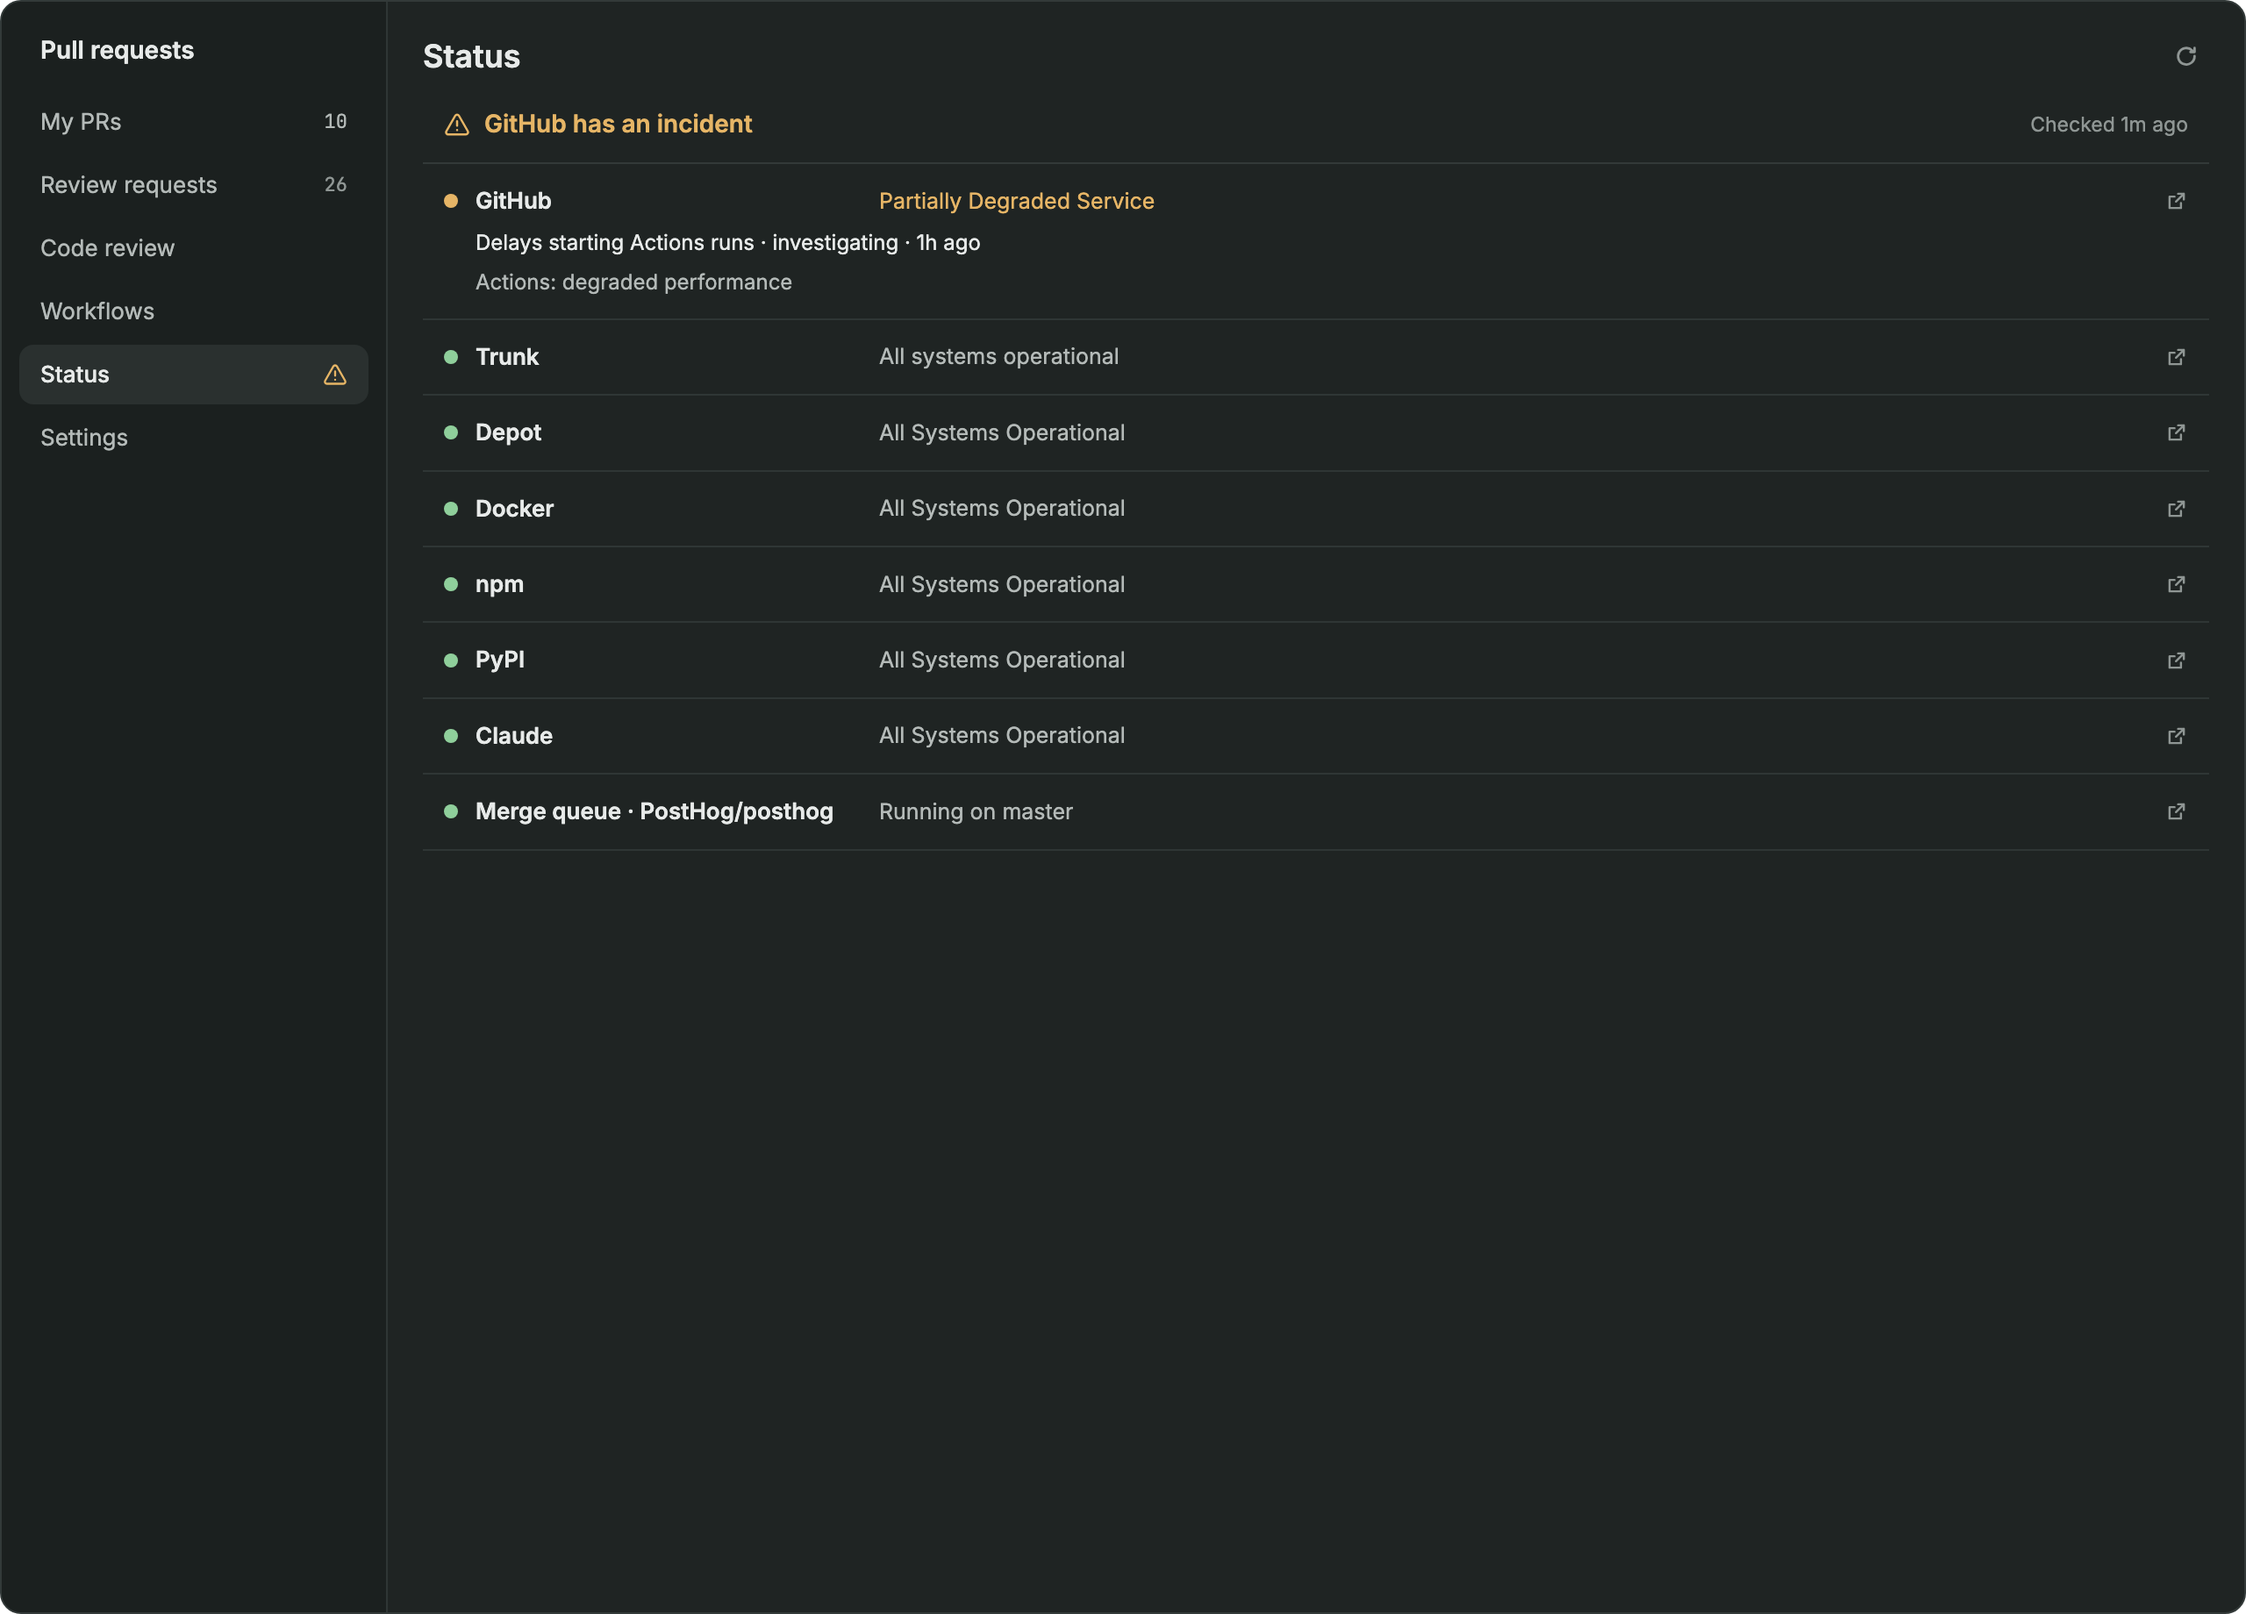
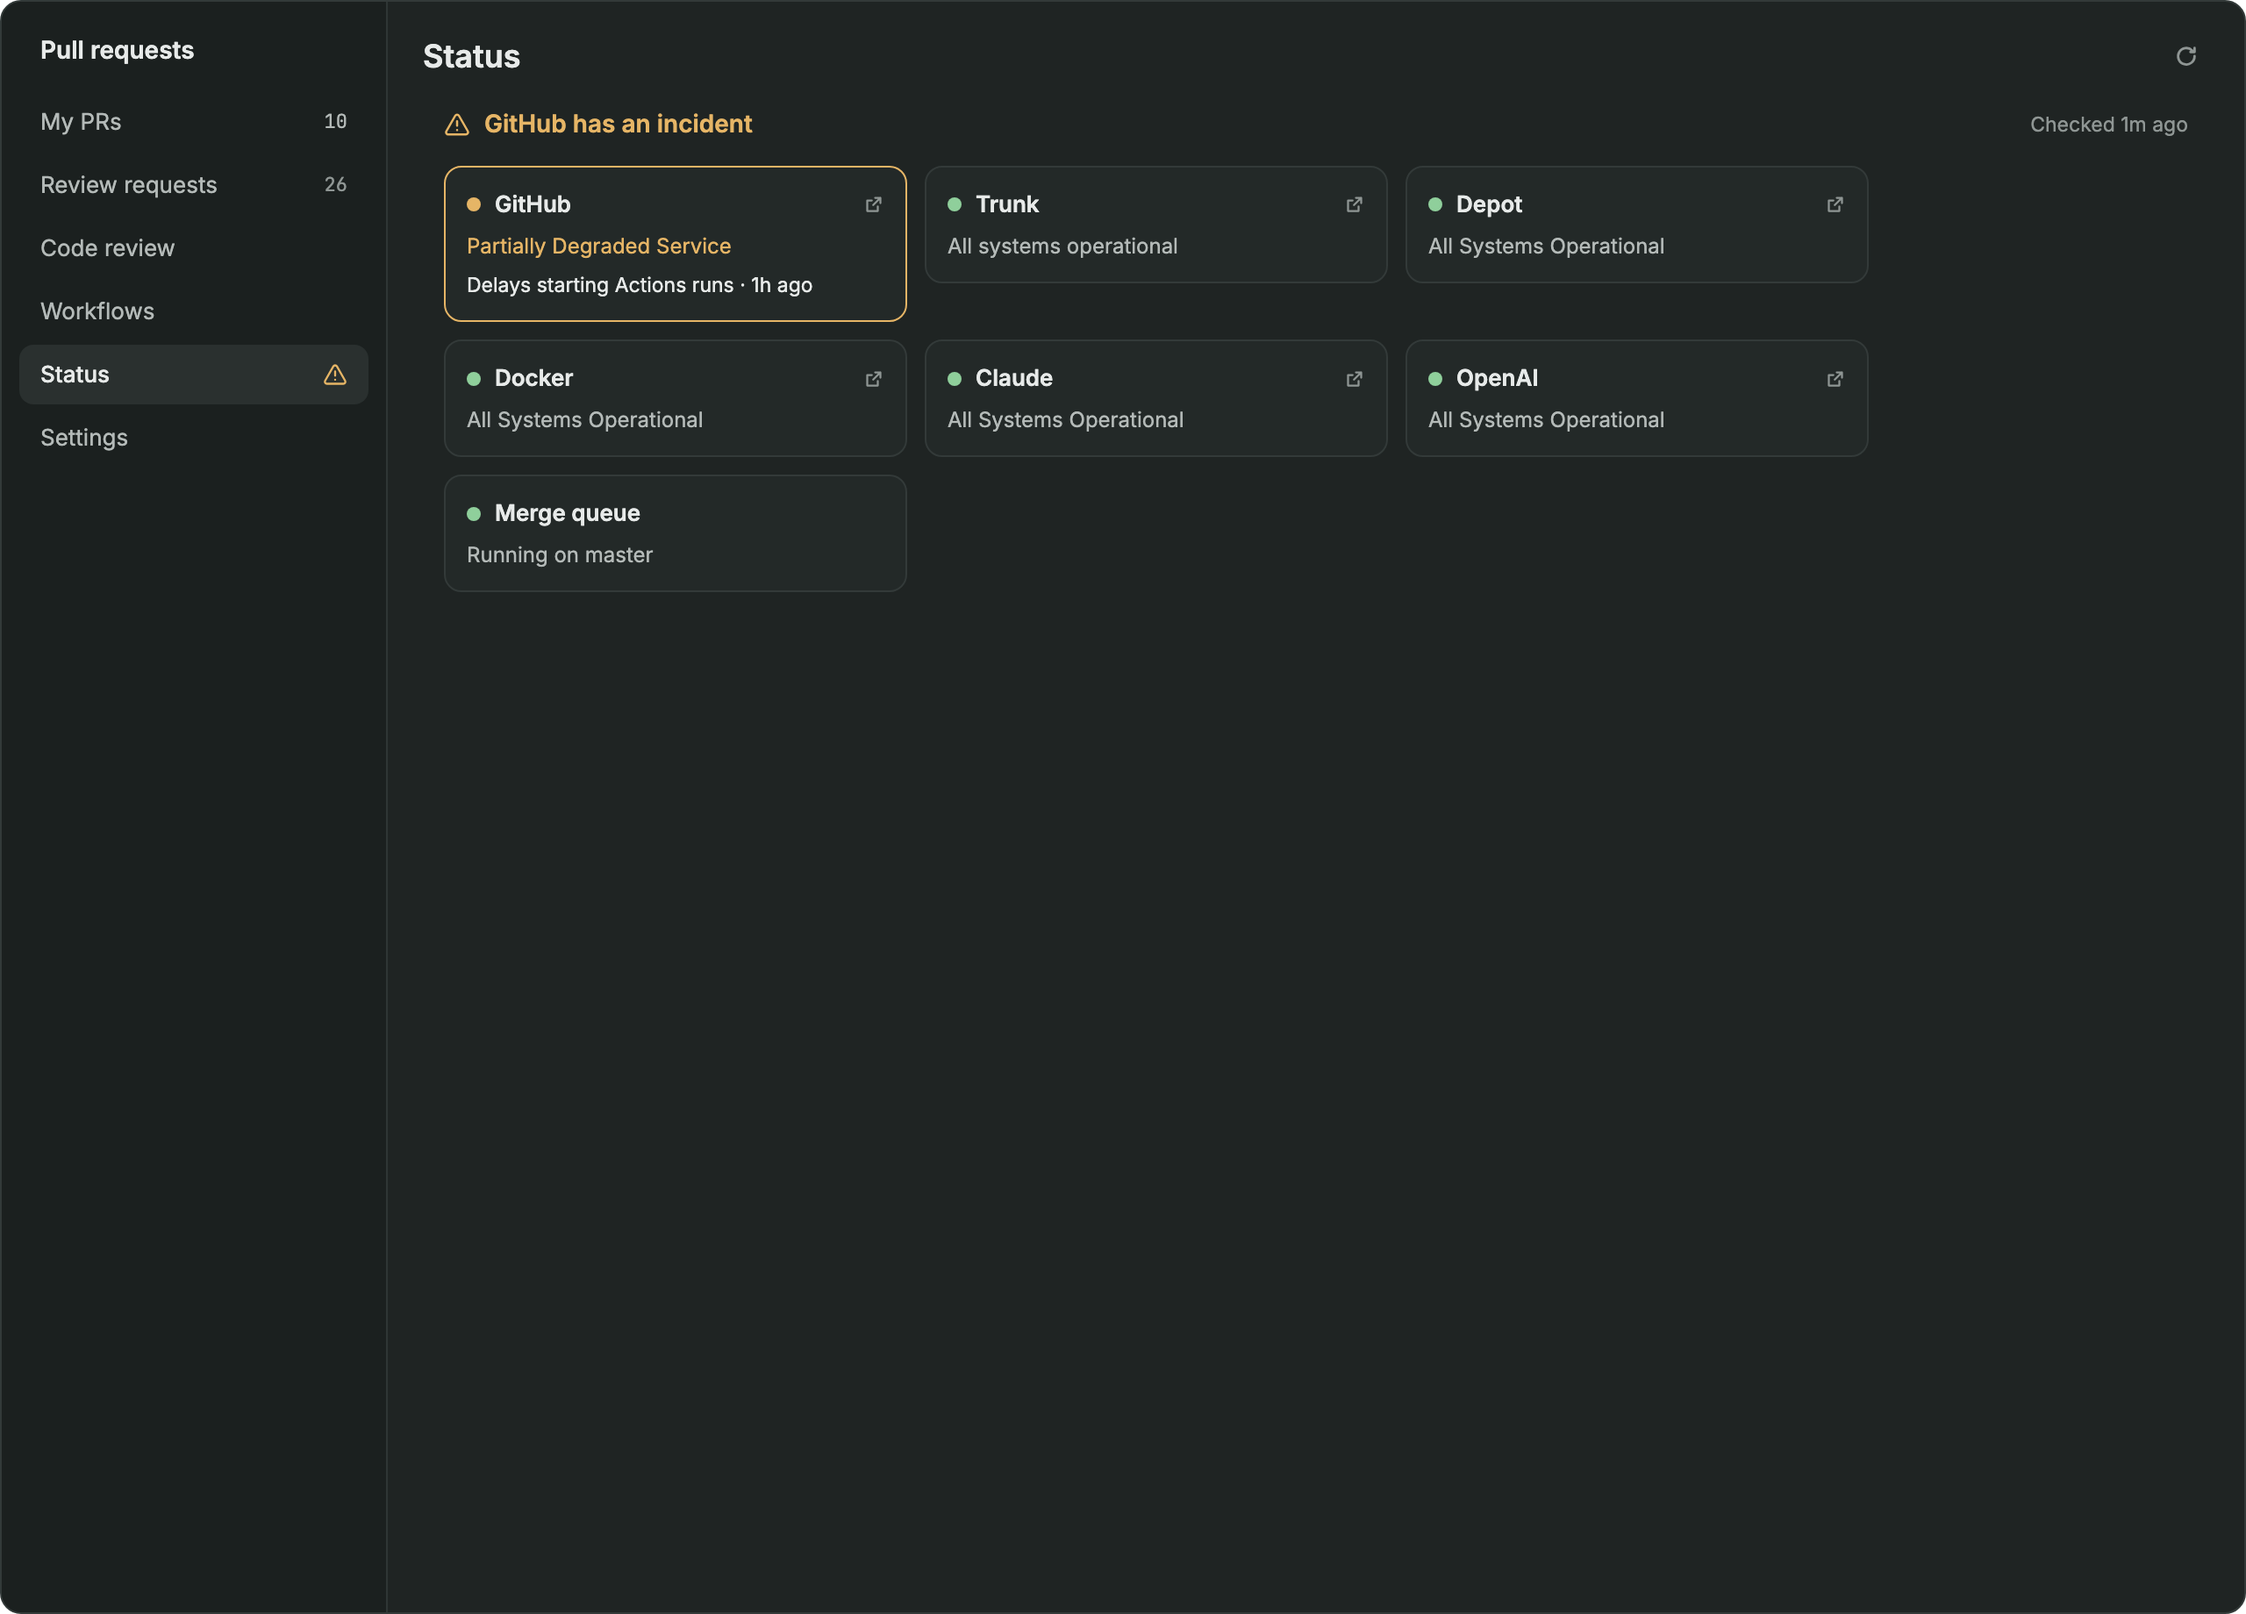
feat(pull-requests): show service status as tiles and track OpenAI instead of npm and PyPI

diff --git a/pull-requests/mods/prs/main.js b/pull-requests/mods/prs/main.js
@@ -1053,49 +1053,53 @@ export default class Prs extends View {
     if (!this.serviceStatus) return [empty(t, "Reading the status pages…")];
     const overview = statusOverview(services);
     const levelColor = (level) => (level === "unknown" ? t.dim : tone(t, level));
-    const detail = (id, text, color, url) =>
-      div()
-        .id(id)
-        .pl(18)
-        .text_size(12)
-        .text_color(color)
-        .when(Boolean(url), (el) => el.cursor_pointer().hover((s) => s.text_color(t.foreground)).on_click((_e, cx) => {
-          cx.stop_propagation();
-          openUrl(url);
-        }))
-        .child(text);
+    const tile = (service, index) => {
+      const troubled = service.level === "warn" || service.level === "bad";
+      return v_flex()
+        .id(`prs-status-${index}`)
+        .w(264)
+        .flex_none()
+        .p(12)
+        .gap(6)
+        .rounded(10)
+        .border_1()
+        .border_color(troubled ? levelColor(service.level) : t.border)
+        .bg(t.surface)
+        .when(Boolean(service.url), (el) => el.cursor_pointer().hover((s) => s.bg(t.hover)).on_click(() => openUrl(service.url)))
+        .child(
+          h_flex()
+            .gap(8)
+            .items_center()
+            .child(div().w(8).h(8).rounded(4).flex_none().bg(levelColor(service.level)))
+            .child(div().flex_1().min_w(0).truncate().text_size(13).font_semibold().child(service.name))
+            .when(Boolean(service.url), (el) => el.child(svg("mods/prs/icons/external.svg").size(12).flex_none().text_color(t.dim))),
+        )
+        .child(div().text_size(12).text_color(troubled ? levelColor(service.level) : t.muted).child(service.description))
+        .children(service.incidents.slice(0, 2).map((incident, at) =>
+          div()
+            .id(`prs-status-${index}-i${at}`)
+            .text_size(11.5)
+            .text_color(t.foreground)
+            .cursor_pointer()
+            .hover((s) => s.text_color(t.muted))
+            .on_click((_e, cx) => {
+              cx.stop_propagation();
+              openUrl(incident.url);
+            })
+            .child(`${incident.name}${incident.since ? ` · ${ago(incident.since)}` : ""}`),
+        ));
+    };
     return [
       h_flex()
         .px(16)
         .pt(14)
-        .pb(10)
+        .pb(12)
         .gap(8)
         .items_center()
         .when(overview.troubled.length > 0, (el) => el.child(svg("mods/prs/icons/alert.svg").size(15).flex_none().text_color(tone(t, overview.level))))
         .child(div().flex_1().text_size(14).font_semibold().text_color(overview.troubled.length ? tone(t, overview.level) : t.foreground).child(overview.title))
         .child(div().flex_none().text_size(11.5).text_color(t.dim).child(`Checked ${ago(new Date(this.serviceStatus.at).toISOString())}`)),
-      ...overview.sorted.map((service, index) =>
-        v_flex()
-          .id(`prs-status-${index}`)
-          .px(16)
-          .py(10)
-          .gap(5)
-          .border_b_1()
-          .border_color(t.border)
-          .when(Boolean(service.url), (el) => el.cursor_pointer().hover((s) => s.bg(t.hover)).on_click(() => openUrl(service.url)))
-          .child(
-            h_flex()
-              .gap(10)
-              .items_center()
-              .child(div().w(8).h(8).rounded(4).flex_none().bg(levelColor(service.level)))
-              .child(div().w(220).flex_none().truncate().text_size(13).font_semibold().child(service.name))
-              .child(div().flex_1().min_w(0).truncate().text_size(12.5).text_color(service.level === "ok" ? t.muted : levelColor(service.level)).child(service.description))
-              .when(Boolean(service.url), (el) => el.child(svg("mods/prs/icons/external.svg").size(13).flex_none().text_color(t.dim))),
-          )
-          .children(service.incidents.map((incident, at) => detail(`prs-status-${index}-i${at}`, `${incident.name}${incident.status ? ` · ${incident.status}` : ""}${incident.since ? ` · ${ago(incident.since)}` : ""}`, t.foreground, incident.url)))
-          .children(service.components.slice(0, 6).map((component, at) => detail(`prs-status-${index}-c${at}`, `${component.name}: ${component.status}`, t.muted, null)))
-          .children(service.maintenance.map((item, at) => detail(`prs-status-${index}-m${at}`, `Maintenance: ${item.name}`, t.muted, item.url))),
-      ),
+      h_flex().px(16).gap(10).flex_wrap().items_start().children(overview.sorted.map(tile)),
     ];
   }
 

diff --git a/pull-requests/mods/prs/status.js b/pull-requests/mods/prs/status.js
@@ -3,9 +3,8 @@ export const DEFAULT_SERVICES = [
   { name: "Trunk", url: "https://status.trunk.io" },
   { name: "Depot", url: "https://status.depot.dev" },
   { name: "Docker", url: "https://www.dockerstatus.com" },
-  { name: "npm", url: "https://status.npmjs.org" },
-  { name: "PyPI", url: "https://status.python.org" },
   { name: "Claude", url: "https://status.claude.com" },
+  { name: "OpenAI", url: "https://status.openai.com" },
 ];
 
 const INDICATOR_LEVEL = { none: "ok", minor: "warn", major: "bad", critical: "bad", maintenance: "info" };
@@ -68,7 +67,7 @@ export function queueService(trunk) {
   if (!listing) return { name: "Merge queue", url: null, level: "unknown", description: trunk.error ?? "The merge queue isn't available.", incidents: [], components: [], maintenance: [] };
   const running = listing.running === "Running";
   return {
-    name: `Merge queue · ${trunk.repo}`,
+    name: "Merge queue",
     url: null,
     level: running ? "ok" : "warn",
     description: running ? `Running on ${listing.branch}` : `${listing.running} on ${listing.branch}`,
@@ -85,7 +84,7 @@ export function statusOverview(services) {
   const unknown = services.filter((service) => service.level === "unknown").length;
   const level = troubled[0]?.level ?? "ok";
   const title = troubled.length
-    ? `${troubled.map((service) => service.name.split(" · ")[0]).join(", ")} ${troubled.length === 1 ? "has" : "have"} an incident`
+    ? `${troubled.map((service) => service.name).join(", ")} ${troubled.length === 1 ? "has" : "have"} an incident`
     : unknown
       ? `No incidents, but ${unknown} status page${unknown === 1 ? "" : "s"} couldn't be read`
       : "All systems operational";

diff --git a/pull-requests/RECIPE.md b/pull-requests/RECIPE.md
@@ -19,7 +19,7 @@ The panel sits under the agents list. In the `Pull-Requests` layout, `cmd-shift-
 - **The full page:** a 230 px nav (My PRs, Review requests, Code review, Workflows, Status, Settings, and "Back to terminals ⌘⇧G" at the bottom), then the page's title, search, filter chips and a table.
   - **Tables:** My PRs and Review requests have a Title column, the five gates as column headers over each row's status line and readiness strip, and an Updated column. My PRs is split into "Needs you" and "Waiting on others" like the sidebar. The last column has the row's action icons, then Claude Code, Agent review, Copy and Open icons. They use the sidebar's icons, chips, stack headers and progress bars.
   - **Filter chips:** repo, Hide drafts, Needs attention, Needs review, Ready to merge, Watching, newest/oldest, requested via (direct or a team), Priority, saved filters, "+ Filter", "+ Add PR" and Copy list.
-  - **Status:** one row per service the work depends on: GitHub, Trunk, Depot, Docker, npm, PyPI and Claude, read from each one's public status page every two minutes, plus the Trunk merge queue's own state. A dot is green when it's up, amber when degraded, red in an outage, blue under maintenance and grey when the page couldn't be read. Services with trouble sort first and list their open incidents and affected components; a row opens its status page. While any service has an incident, the Status nav item shows a warning icon. The list is `status.services` in `prs-config.json` (a name and a status page URL each).
+  - **Status:** a grid of tiles, one per service the work depends on: GitHub, Trunk, Depot, Docker, Claude and OpenAI, read from each one's public status page every two minutes, plus the Trunk merge queue's own state. A tile has a dot (green when it's up, amber when degraded, red in an outage, blue under maintenance, grey when the page couldn't be read), the service's name and its one-line state. A service with trouble sorts first, gets a colored border and lists up to two open incidents; a tile opens its status page. While any service has an incident, the Status nav item shows a warning icon. The list is `status.services` in `prs-config.json` (a name and a status page URL each).
 - **The detail sheet:** a 900×820 dialog. The header has the PR's state icon, its title, and icon buttons for Refresh, Open on GitHub and Close, then the repo and number, the author, and head → base branch.
   - **Readiness:** on every tab, a verdict (what's blocking and whether it needs you) next to five gates: Checks, Review, Threads, Conflicts, and Queue (Trunk or GitHub merge queue) or, for repos without a queue, Merge. Each gate has a colored bar, an icon and a short state ("359 passed", "2 failed", "Waiting", "None open", "Trunk, testing", "Not queued").
   - **Tabs:** Overview, Findings, Checks and Reviews, with counts. The Checks count is colored by the worst state: failed, then running, then passed.

diff --git a/pull-requests/README.md b/pull-requests/README.md
@@ -13,7 +13,7 @@ My PRs splits into what needs you and what's waiting on others. Each row has a f
 
 ## Status
 
-The Status page shows whether GitHub, Trunk, Depot, Docker and the other services the work depends on are up. An incident puts a warning on the nav item and in the sidebar's top bar. This is a design mockup with a made-up incident.
+The Status page shows whether GitHub, Trunk, Depot, Docker, Claude and OpenAI are up. An incident puts a warning on the nav item and in the sidebar's top bar. This is a design mockup with a made-up incident.
 
 ![Status page](screenshots/status.png)
 
